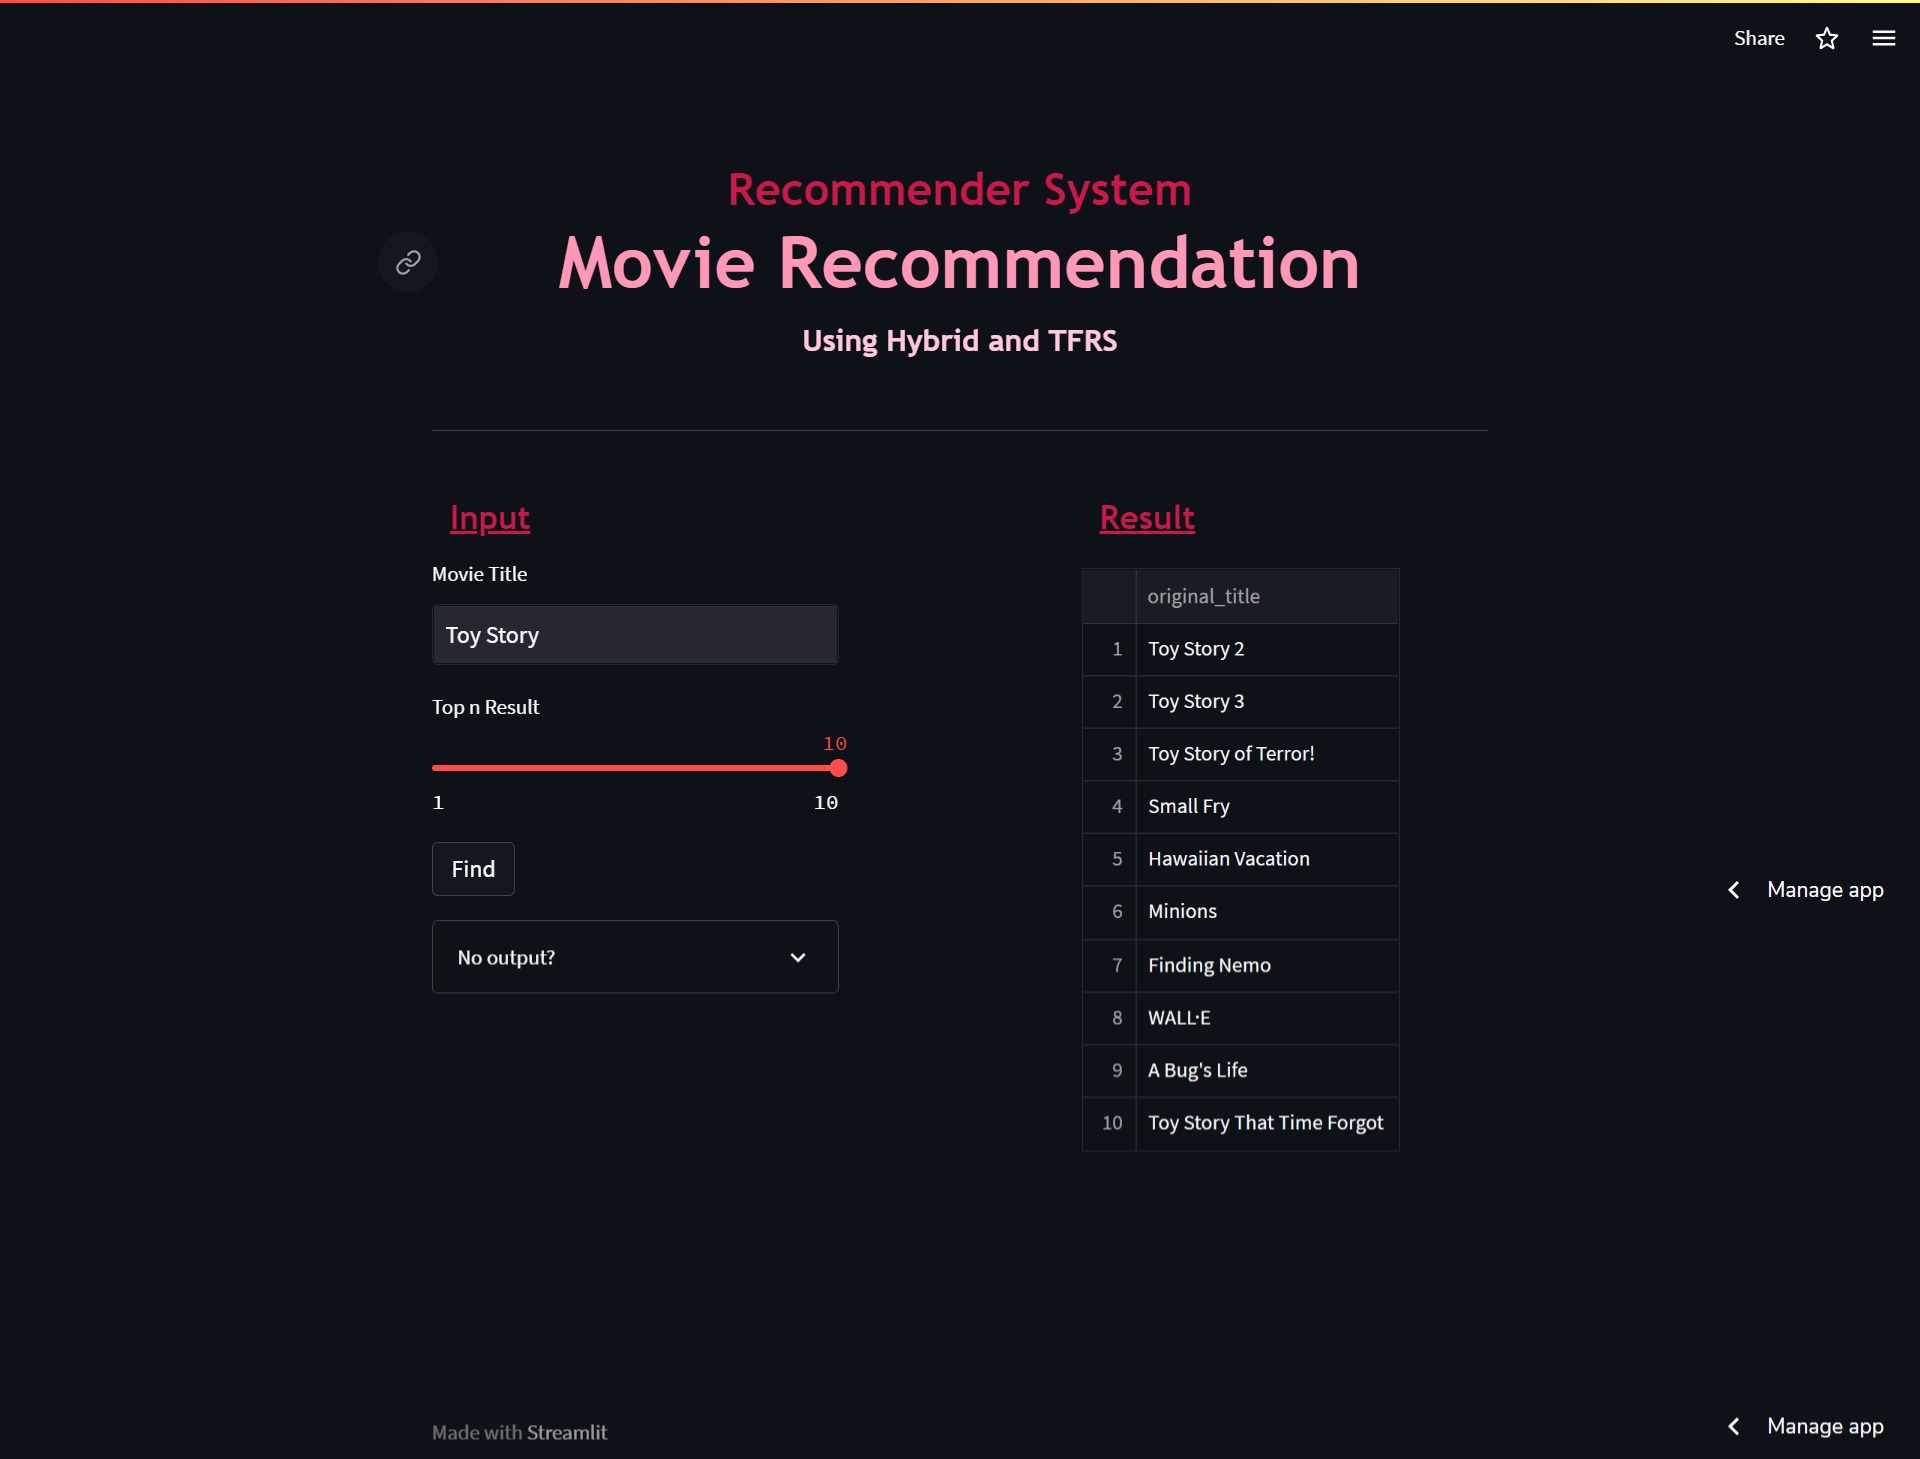
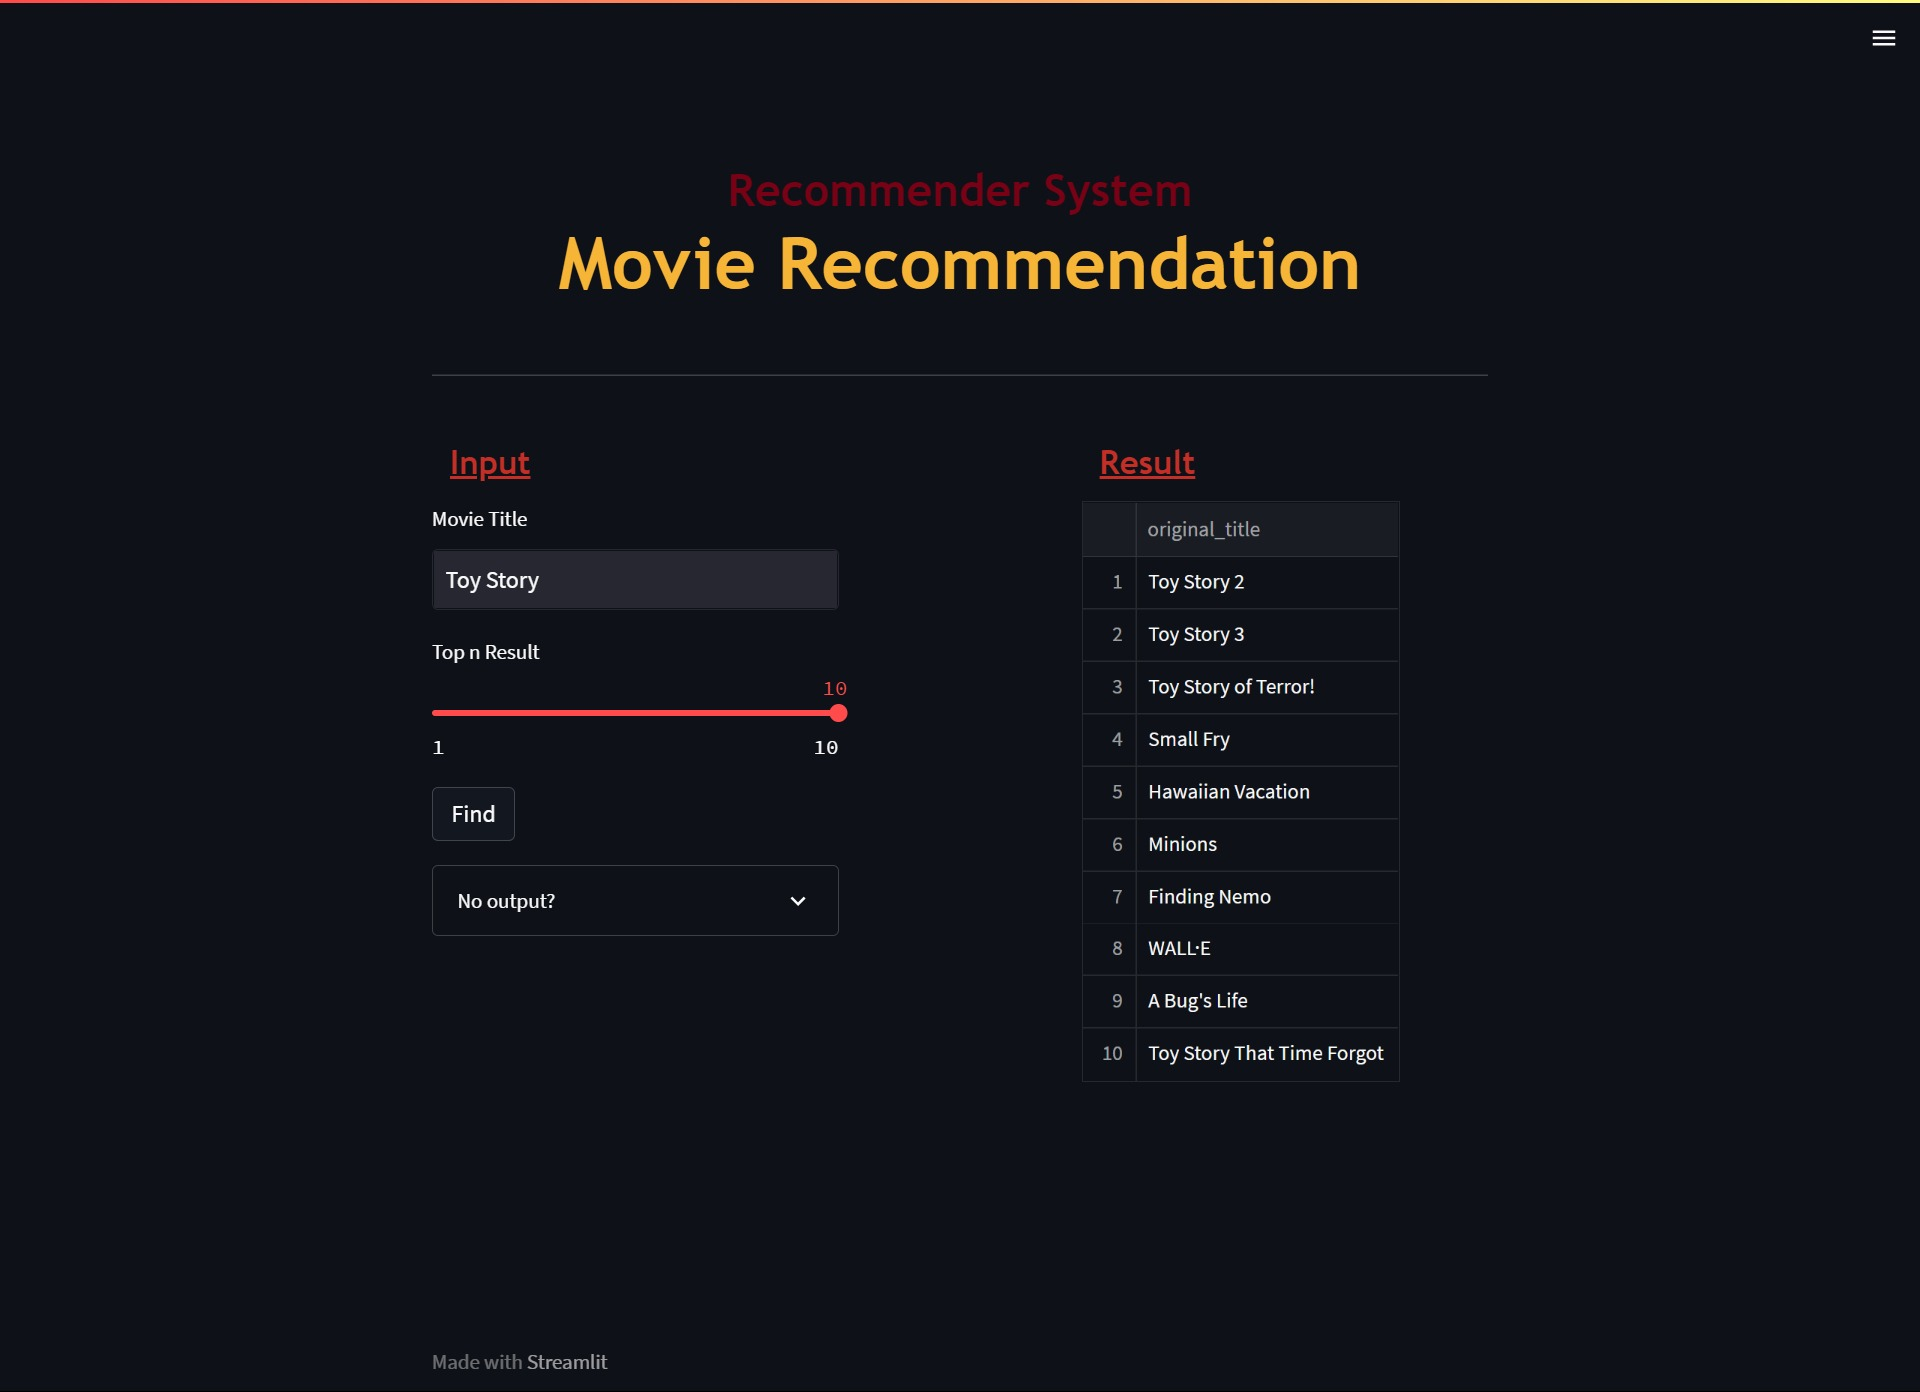
Update file

diff --git a/Deployment/app.py b/Deployment/app.py
@@ -29,10 +29,9 @@ def predict(title, similarity_weight=0.7, top_n=10):
 
 def main():
     html_temp = '''
-    <h1 style="font-family: Trebuchet MS; padding: 12px; font-size: 30px; color: #c9184a; text-align: center;
+    <h1 style="font-family: Trebuchet MS; padding: 12px; font-size: 30px; color: #780116; text-align: center;
     line-height: 1.25;">Recommender System<br>
-    <span style="color: #ff97b7; font-size: 48px"><b>Movie Recommendation</b></span><br>
-    <span style="color: #ffc8dd; font-size: 20px">Using Hybrid and TFRS</span>
+    <span style="color: #f7b538; font-size: 48px"><b>Movie Recommendation</b></span><br>
     </h1>
     <hr>
     '''
@@ -41,7 +40,7 @@ def main():
     col1, col2, col3 = st.columns([2,1,2])
     
     with col1:
-        st.markdown('<h1 style="font-family: Trebuchet MS; padding: 12px; font-size: 22px; color: #c9184a; text-align: left; line-height: 1.25;"><u>Input</u></h1>', unsafe_allow_html=True)
+        st.markdown('<h1 style="font-family: Trebuchet MS; padding: 12px; font-size: 22px; color: #c32f27; text-align: left; line-height: 1.25;"><u>Input</u></h1>', unsafe_allow_html=True)
 
         movie = st.text_input('Movie Title', '')
         top_n = st.slider('Top n Result', 1, 10, 10)
@@ -64,7 +63,7 @@ def main():
             ''')
 
     with col3:
-        st.markdown('<h1 style="font-family: Trebuchet MS; padding: 12px; font-size: 22px; color: #c9184a; text-align: left; line-height: 1.25;"><u>Result</u></h1>', unsafe_allow_html=True)
+        st.markdown('<h1 style="font-family: Trebuchet MS; padding: 12px; font-size: 22px; color: #c32f27; text-align: left; line-height: 1.25;"><u>Result</u></h1>', unsafe_allow_html=True)
 
         try:
             st.dataframe(predict(title, similarity_weight=0.7, top_n=top))
